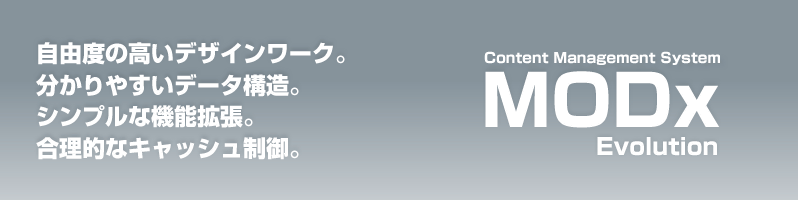
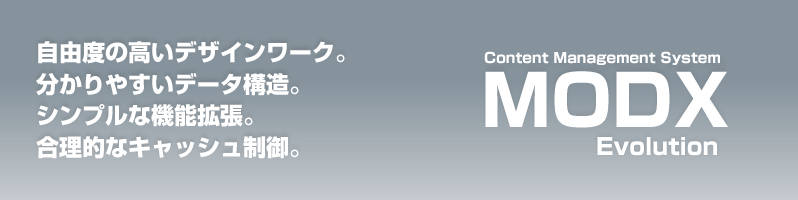
「MODx｣を「MODX」に変更
git-svn-id: http://modx-ja.googlecode.com/svn/trunk@998 0ada2093-eb46-0410-9c1d-63be55e7407d

diff --git a/install/lang/english.inc.php b/install/lang/english.inc.php
@@ -183,7 +183,7 @@ $_lang["unable_install_template"] = 'Unable to install template.  File';
 $_lang["upgrade_note"] = '<strong>Note:</strong> Before browsing your site you should log into the manager with an administrative account, then review and save your System Configuration settings.';
 $_lang["upgraded"] = 'Upgraded';
 $_lang["validate_referer_title"] = 'Validate HTTP_REFERER headers?';
-$_lang["visit_forum"] = ', visit the <a href="http://www.modxcms.com/forums/" target="_blank">MODx Forums</a>.';
+$_lang["visit_forum"] = ', visit the <a href="http://modxcms.com/forums/" target="_blank">MODx Forums</a>.';
 $_lang["warning"] = 'WARNING!';
 $_lang["welcome_message_start"] = 'First, choose the type of installation to perform:';
 $_lang["welcome_message_text"] = 'This program will guide you through the rest of the installation.';
